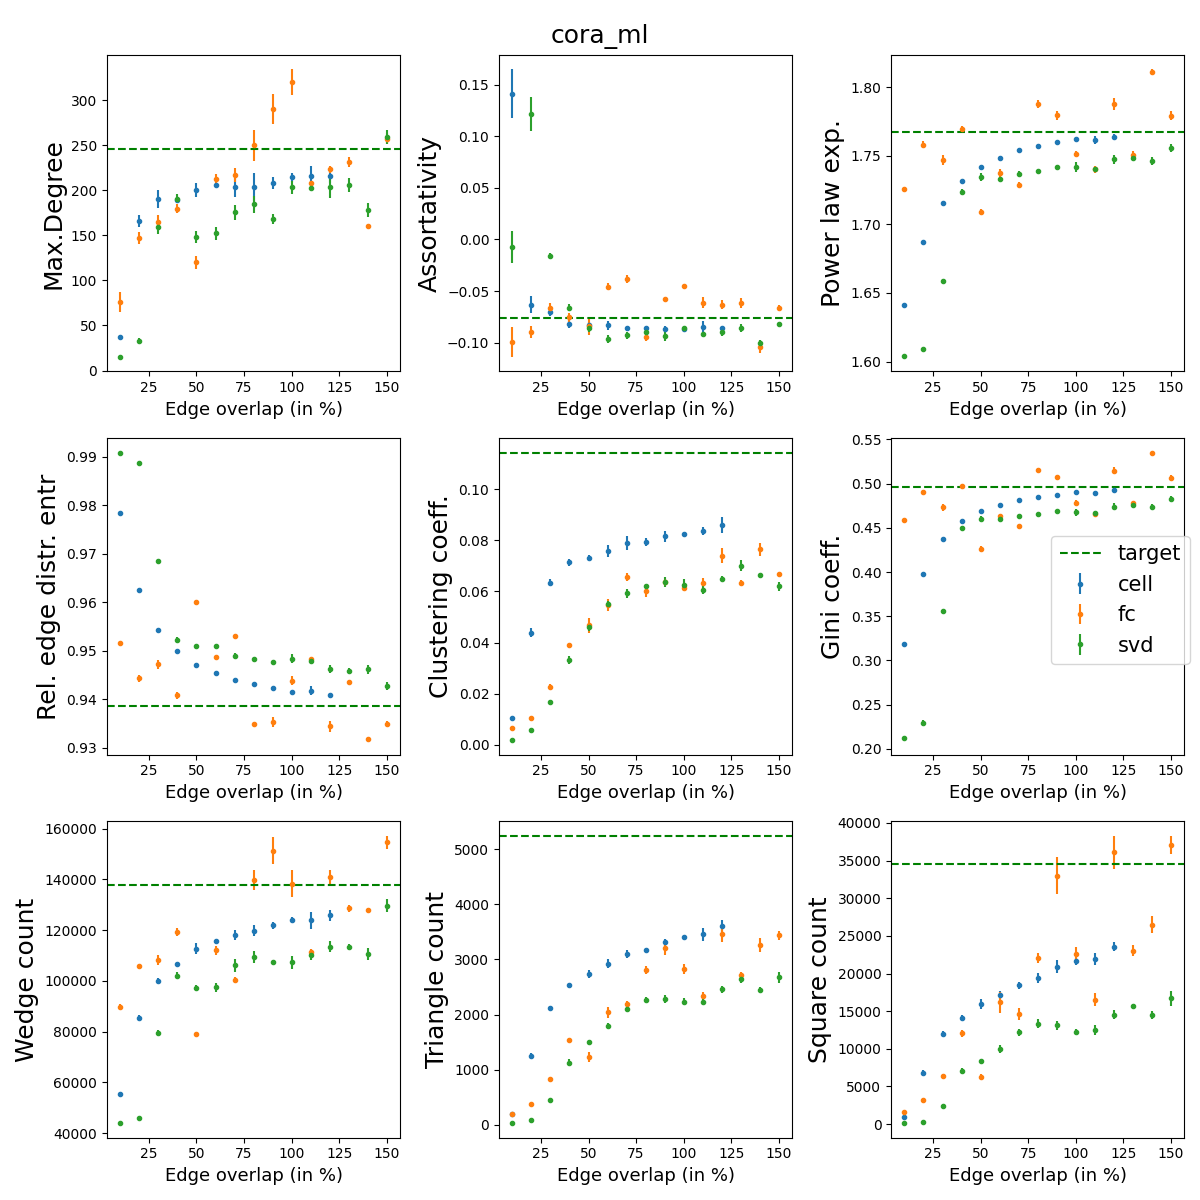
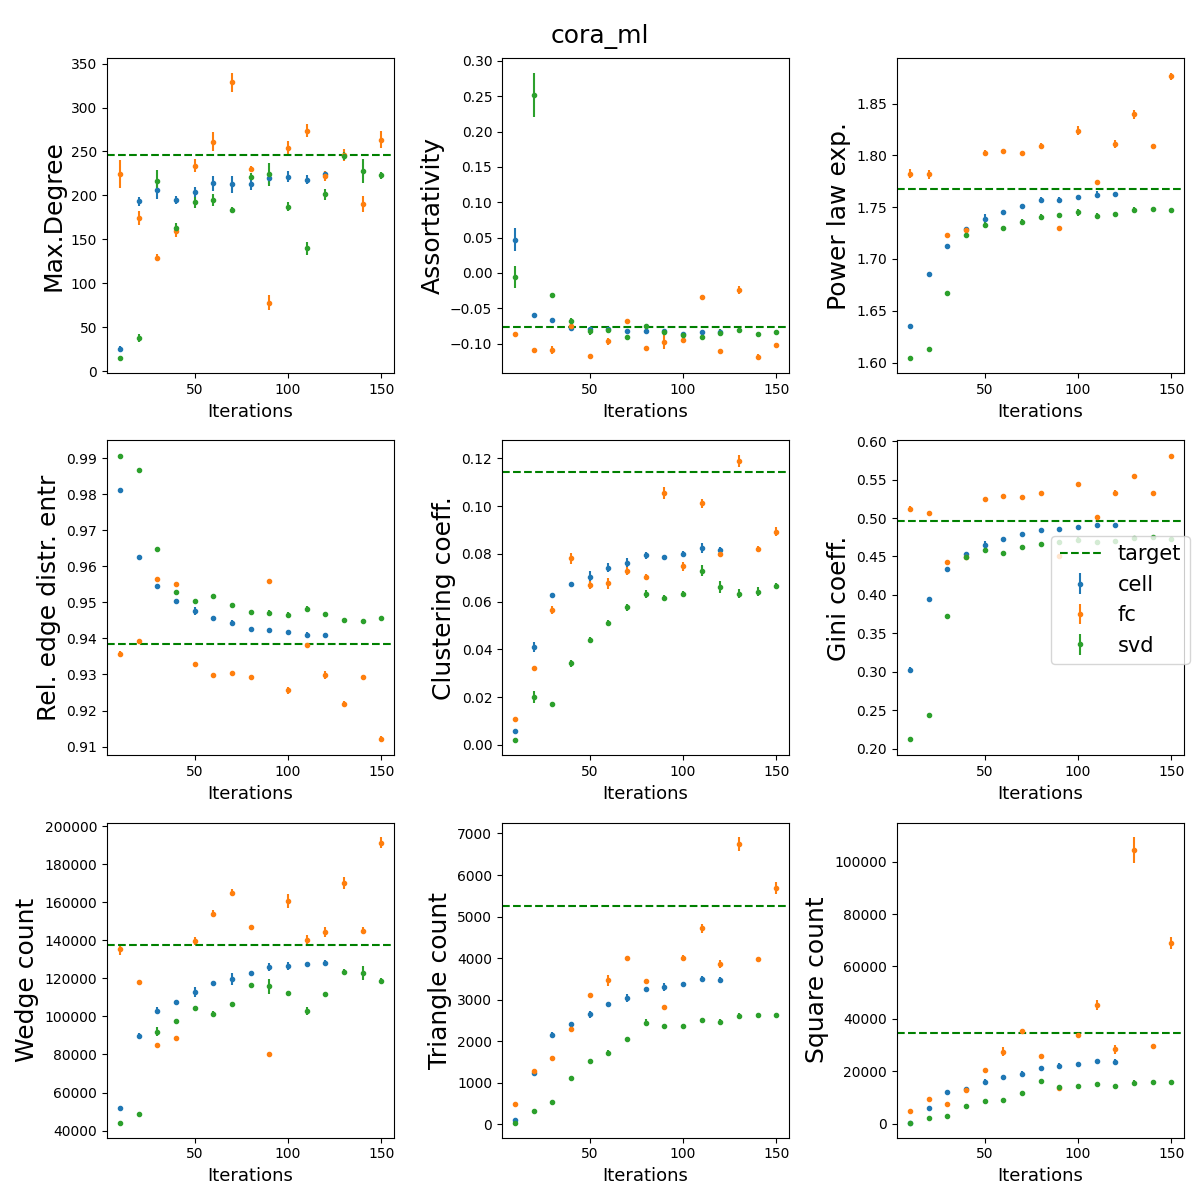
super_minor_fix

diff --git a/stat_during_training.py b/stat_during_training.py
@@ -89,7 +89,10 @@ def main(args):
         'wedge_count', 'triangle_count', 'square_count']))):
 
         axs[stat_id // 3, stat_id % 3].set_ylabel(stat_name, fontsize=18)
-        axs[stat_id // 3, stat_id % 3].set_xlabel('Edge overlap (in %)', fontsize=13)
+        if args.graphic_mode == 'overlap':
+            axs[stat_id // 3, stat_id % 3].set_xlabel('Edge overlap (in %)', fontsize=13)
+        else:
+            axs[stat_id // 3, stat_id % 3].set_xlabel('Iterations', fontsize=13)
         axs[stat_id // 3, stat_id % 3].axhline(y=original_stat[stat], color='g', linestyle='--', label='target')
         for model_name, model_statistic in training_stat.items():
             if args.graphic_mode == 'overlap':
